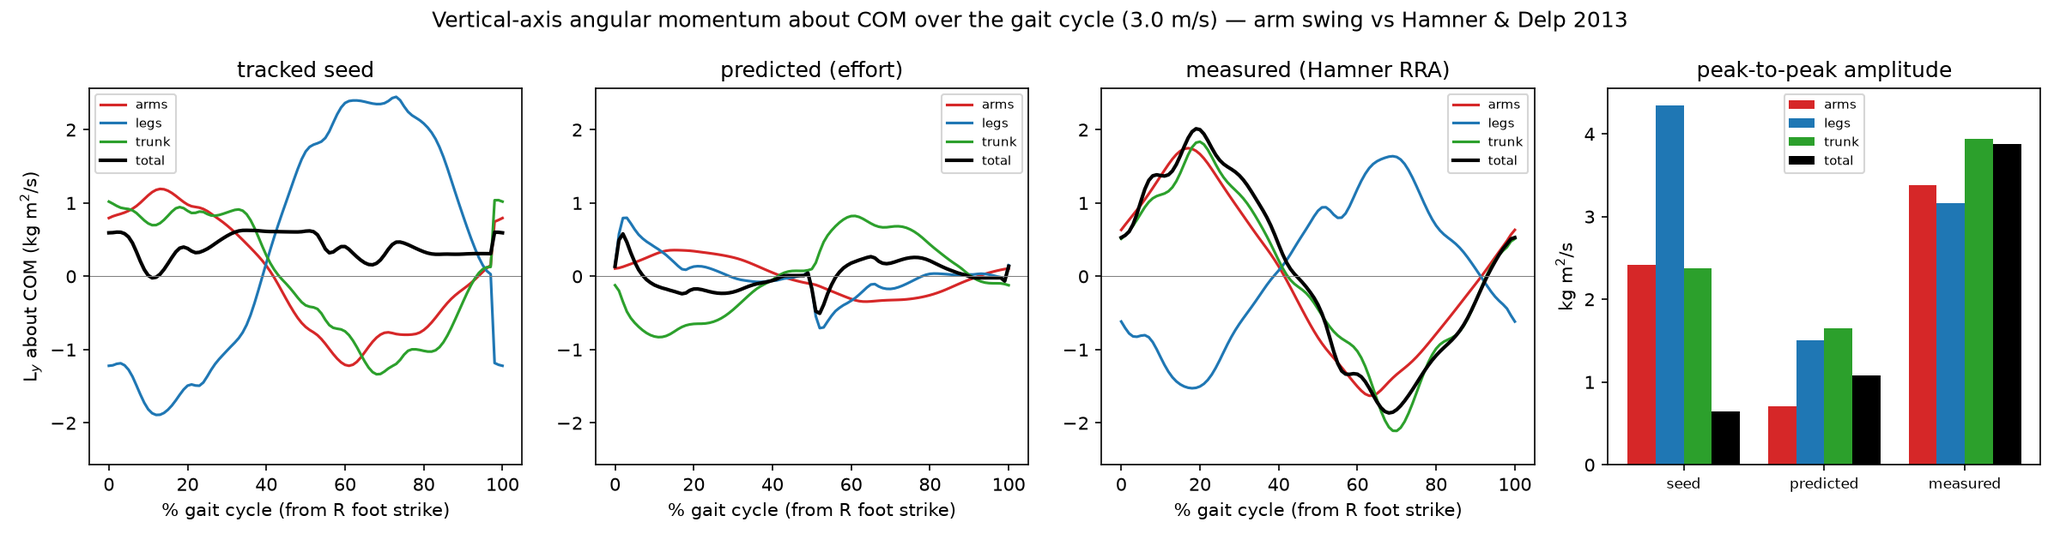
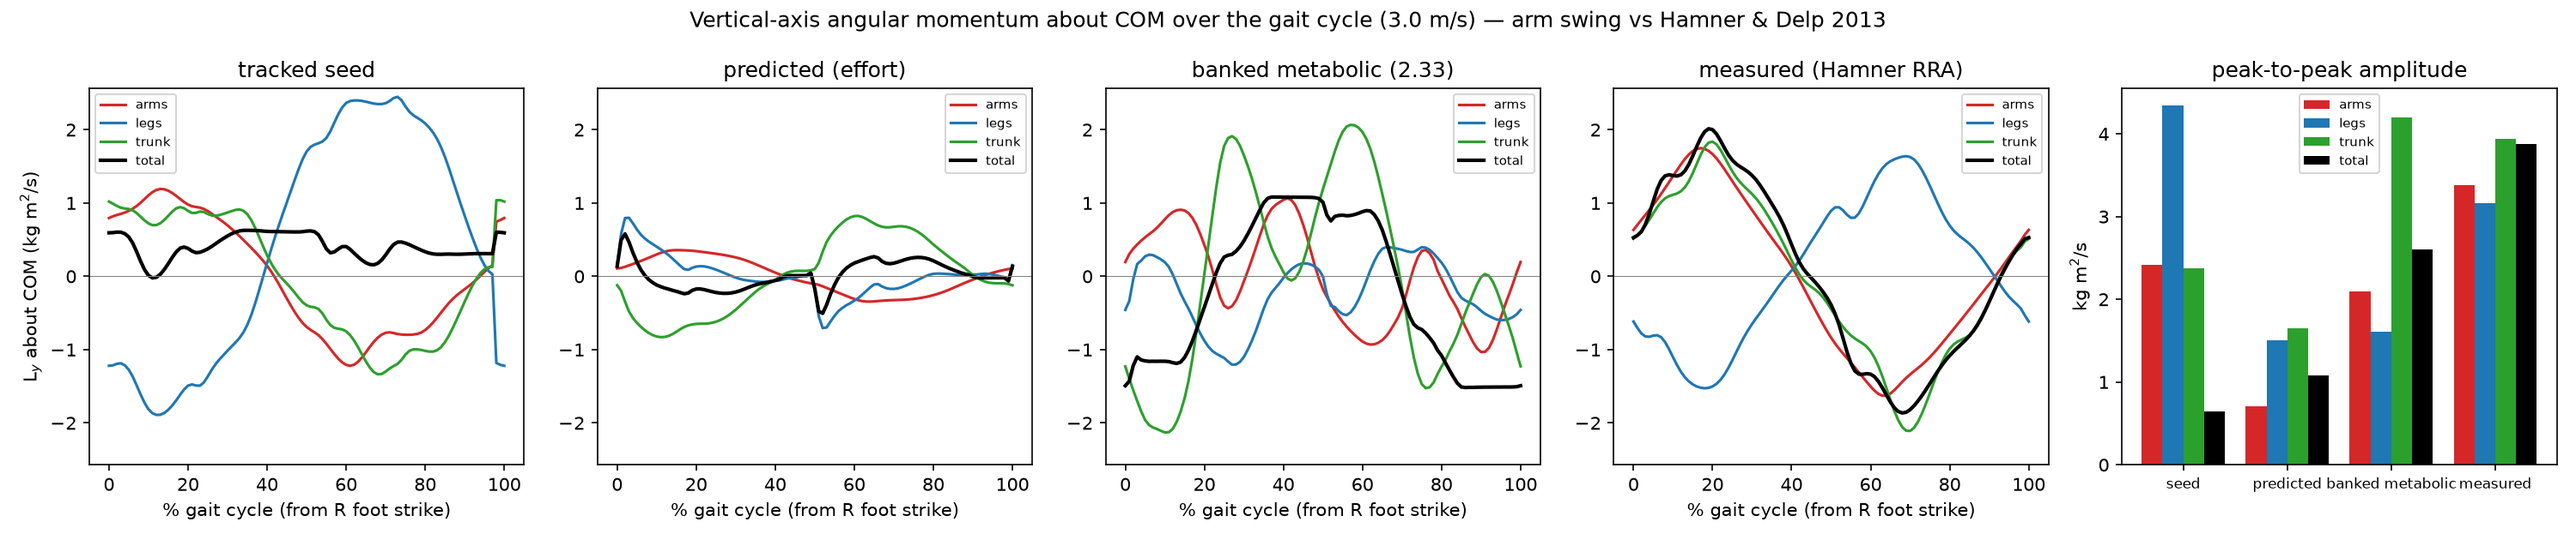
Finish tooling: momentum analysis takes extra motions; finalize orchestrator
analyze_arm_momentum.py accepts label=path extra Moco solutions (extra
panels/bars, compared to the measured reference). finalize_met_solution.py
runs validation + momentum + station export for a converged metabolic
solution in one command. Interim figure includes the banked (unconverged)
metabolic iterate: arm amplitude 0.62x measured (effort gait: 0.21x) but
corr +0.17 and uncancelled 1.71 - arms move but do not counter-rotate.

diff --git a/scripts/analyze_arm_momentum.py b/scripts/analyze_arm_momentum.py
@@ -217,15 +217,20 @@ def analyze(model: osim.Model, path: Path, kind: str, decimate: int = 10):
     }
 
 
-def main() -> None:
+def main(extra: list[tuple[str, Path]] | None = None) -> None:
+    """extra: additional Moco solutions as (label, path) — e.g. a converged
+    metabolic-objective gait — appended as further panels/bars and
+    compared against the measured reference like the built-in motions."""
     model = osim.Model(str(MODEL))
     model.initSystem()
 
     motions = {
         "tracked seed": (SEED, "moco"),
         "predicted (effort)": (PREDICTED, "moco"),
-        "measured (Hamner RRA)": (RRA_CYCLE, "rra"),
     }
+    for label, path in (extra or []):
+        motions[label] = (Path(path), "moco")
+    motions["measured (Hamner RRA)"] = (RRA_CYCLE, "rra")
     res = {label: analyze(model, path, kind)
            for label, (path, kind) in motions.items()}
 
@@ -241,7 +246,7 @@ def main() -> None:
               f"{r['uncancelled']:>8.2f}")
 
     print("\nvs measured reference:")
-    for label in ("tracked seed", "predicted (effort)"):
+    for label in [l for l in res if l != "measured (Hamner RRA)"]:
         r = res[label]
         amp = {g: r["pp"][g] / ref["pp"][g] for g in ("arms", "legs", "total")}
         # phase lag of the arms trace vs the reference arms trace
@@ -254,7 +259,8 @@ def main() -> None:
               f"total amp x{amp['total']:.2f}  arm phase lag {lag:+d}% cycle")
 
     # ---- figure ----
-    fig, axes = plt.subplots(1, 4, figsize=(16, 4.2))
+    n = len(res)
+    fig, axes = plt.subplots(1, n + 1, figsize=(4 * (n + 1), 4.2))
     fig.suptitle("Vertical-axis angular momentum about COM over the gait cycle "
                  "(3.0 m/s) — arm swing vs Hamner & Delp 2013")
     grid = np.linspace(0, 100, N_PHASE)
@@ -262,7 +268,7 @@ def main() -> None:
               "trunk": "tab:green", "total": "k"}
     ymax = 1.05 * max(np.abs(y).max() for r in res.values()
                       for y in r["cycle"].values())
-    for ax, (label, r) in zip(axes, res.items()):
+    for ax, (label, r) in zip(axes[:n], res.items()):
         for g in ("arms", "legs", "trunk", "total"):
             ax.plot(grid, r["cycle"][g], color=colors[g],
                     lw=2 if g == "total" else 1.5, label=g)
@@ -272,7 +278,7 @@ def main() -> None:
         ax.legend(fontsize=7)
     axes[0].set_ylabel("L$_y$ about COM (kg m$^2$/s)")
 
-    ax = axes[3]
+    ax = axes[-1]
     labels = list(res)
     x = np.arange(len(labels))
     w = 0.2
@@ -280,7 +286,8 @@ def main() -> None:
         ax.bar(x + (i - 1.5) * w, [res[l]["pp"][g] for l in labels], w,
                color=colors[g], label=g)
     ax.set_xticks(x)
-    ax.set_xticklabels(["seed", "predicted", "measured"], fontsize=8)
+    ax.set_xticklabels([l.split(" (")[0].replace("tracked ", "")
+                        for l in labels], fontsize=8)
     ax.set(title="peak-to-peak amplitude", ylabel="kg m$^2$/s")
     ax.legend(fontsize=7)
 
@@ -290,4 +297,14 @@ def main() -> None:
 
 
 if __name__ == "__main__":
-    sys.exit(main())
+    # extra motions as label=path (e.g. "predicted (metabolic)=met_leg05.sto",
+    # relative to experiments/phase3_3drunning or absolute)
+    extra = []
+    for arg in sys.argv[1:]:
+        label, _, p = arg.partition("=")
+        path = Path(p)
+        if not path.is_absolute():
+            path = Path(__file__).resolve().parent.parent / "experiments" \
+                / "phase3_3drunning" / p
+        extra.append((label, path))
+    sys.exit(main(extra))

diff --git a/scripts/finalize_met_solution.py b/scripts/finalize_met_solution.py
@@ -1,0 +1,43 @@
+"""One-command finish for a converged 3D metabolic solution.
+
+Runs, in order, against experiments/phase3_3drunning/<solution>:
+  1. validate_seed3d.py   — joint tracking vs Hamner RRA + GRF overlay
+  2. analyze_arm_momentum.py with the solution as an extra motion —
+     does the metabolic objective restore arm-leg counter-rotation?
+  3. export_seed3d_stations.py — stations JSON for the web renderers
+Prints the produced files. Add the solution to GAITS_3D in
+export_ue_gaits.py (and rerun it) to bring it into the Unreal viewer.
+
+Usage: finalize_met_solution.py <solution.sto> [tag]
+"""
+import subprocess
+import sys
+from pathlib import Path
+
+ROOT = Path(__file__).resolve().parent.parent
+SCRIPTS = ROOT / "scripts"
+D3 = ROOT / "experiments" / "phase3_3drunning"
+
+
+def run(*args: str) -> None:
+    print(f"\n$ {' '.join(args)}", flush=True)
+    subprocess.run([sys.executable, *args], cwd=ROOT, check=True)
+
+
+def main(solution: str, tag: str = "met3d") -> None:
+    if not (D3 / solution).exists():
+        raise SystemExit(f"missing: {D3 / solution}")
+    run(str(SCRIPTS / "validate_seed3d.py"), solution, tag)
+    run(str(SCRIPTS / "analyze_arm_momentum.py"),
+        f"predicted (metabolic)={D3 / solution}")
+    run(str(SCRIPTS / "export_seed3d_stations.py"), str(D3 / solution),
+        str(SCRIPTS / f"{tag}_stations.json"))
+    print("\nproduced:")
+    for p in (ROOT / "experiments" / f"phase3_{tag}_validation.png",
+              ROOT / "experiments" / "phase3_arm_momentum.png",
+              SCRIPTS / f"{tag}_stations.json"):
+        print(f"  {p}  ({'ok' if p.exists() else 'MISSING'})")
+
+
+if __name__ == "__main__":
+    main(*sys.argv[1:3])
